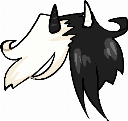
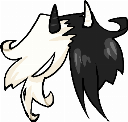
Really last Celeste hair fix, she promises! ;)

diff --git a/data/version.inc.php b/data/version.inc.php
@@ -1,2 +1,2 @@
 <?php
-const VERSION = 136;
+const VERSION = 137;
